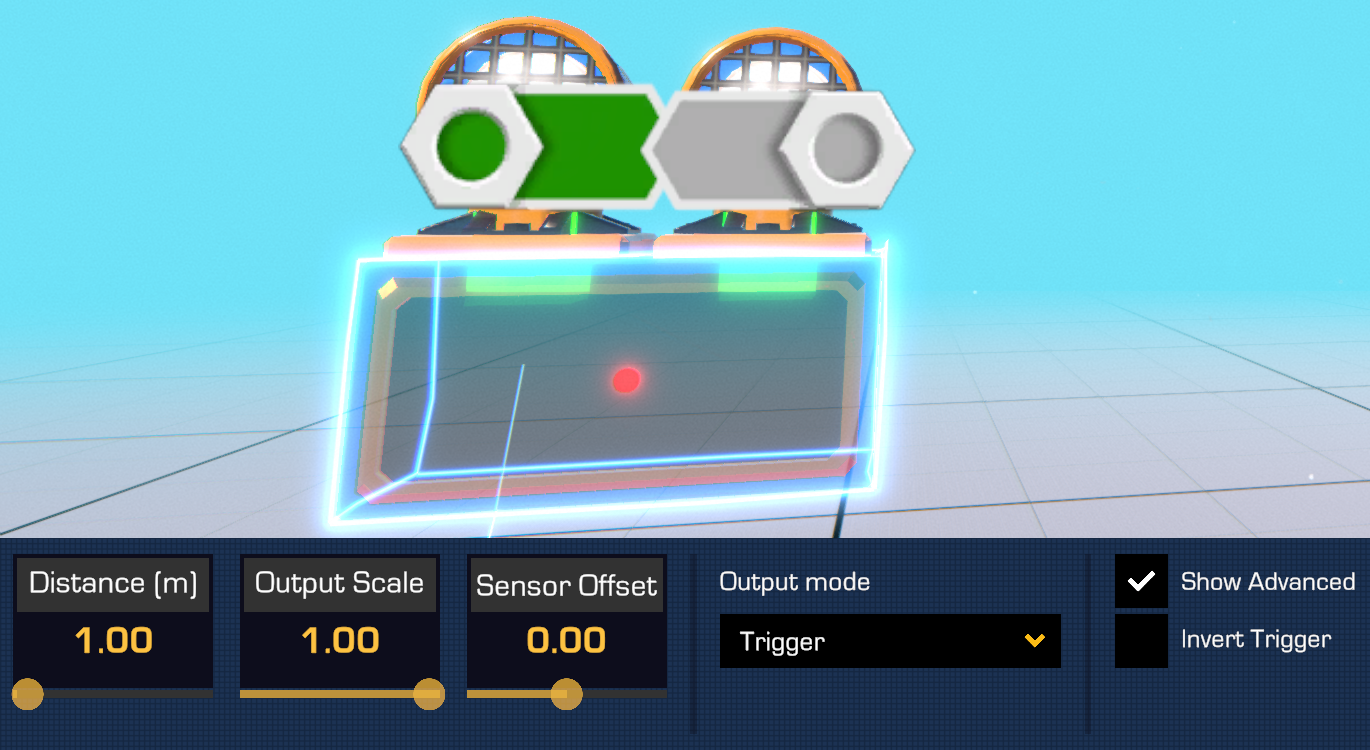
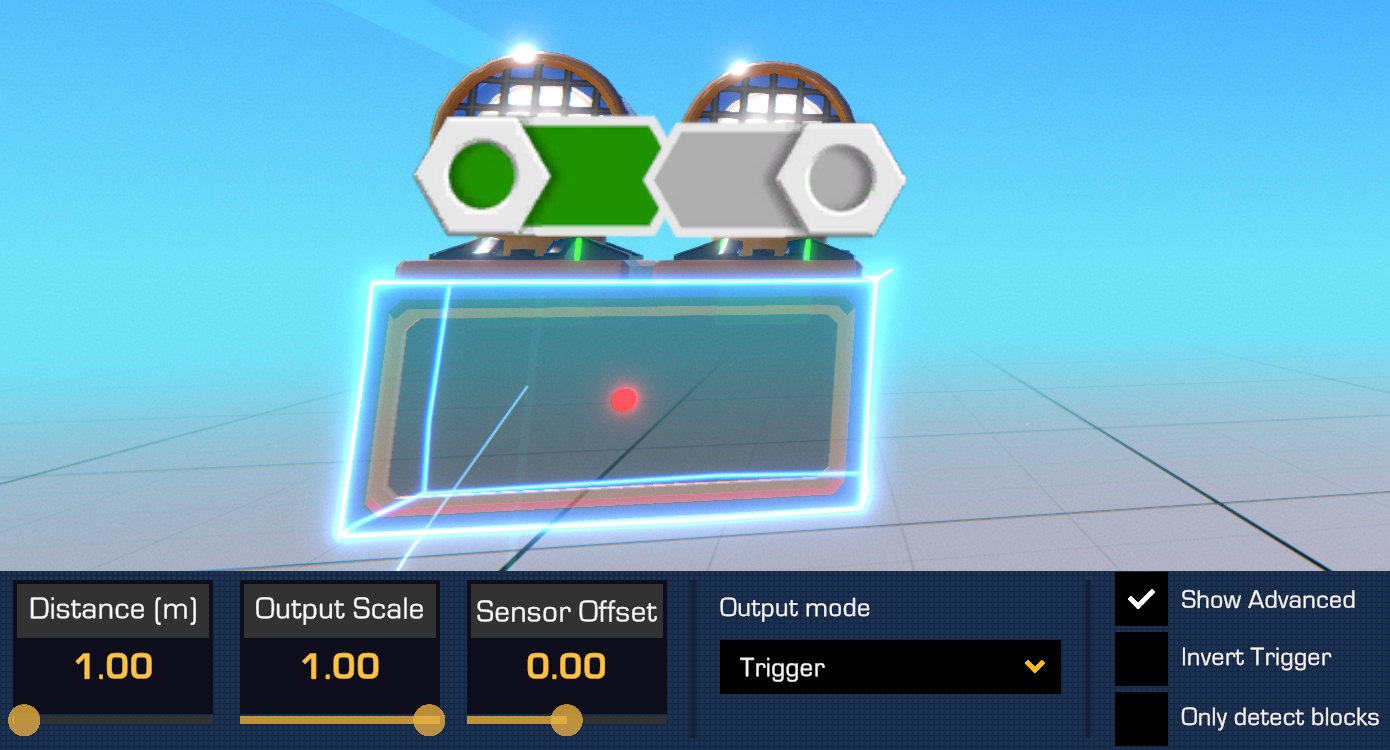
added information about blocks only toggle on distance sensors

diff --git a/Logic Blocks Guide.md b/Logic Blocks Guide.md
@@ -175,6 +175,8 @@ Its settings are shown in figure \ref{fig:SensorDistance} and are as follows:
 - Trigger: condition used to determine when to send an output
   - Normal: sends an output when it detects an object
   - Inverted: sends an output when it doesn't detect an object
+- Blocks only: whether to trigger only when blocks are detected
+  - If enabled, raycast stops at the first obstacle regardless of what it is, but if it's not a block the output will be the same as no detection
 
 \begin{figure}[H]
     \centering
@@ -197,22 +199,24 @@ Its settings are shown in figure \ref{fig:SensorDistance} and are as follows:
             %\foreach \y in {0,1,...,20} {\node [left]  at (0,\y) {\tiny \y};}
 
             % Nodes
-            \node[annotation, left]  (output_on)    at (-1, 16)      {Output (on)};
-            \node[annotation, right] (output_off)   at (21, 16)      {Output (off)};
-            \node[annotation, left]  (range)        at (-1, 3)       {Range};
-            \node[annotation, below] (output_value) at (3.75, -1.5)  {Output scale};
-            \node[annotation, below] (offset)       at (9.2, -1.5)   {Sensor offset};
-            \node[annotation, below] (mode)         at (14.75, -1.5) {Output mode};
-            \node[annotation, right] (trigger)      at (21, 0)       {Invert trigger};
+            \node[annotation, left]  (output_on)    at (-1, 15.3)    {Output (on)};
+            \node[annotation, right] (output_off)   at (21, 15.3)    {Output (off)};
+            \node[annotation, left]  (range)        at (-1, 2.2)     {Range};
+            \node[annotation, below] (output_value) at (3.4, -1.5)   {Output scale};
+            \node[annotation, below] (offset)       at (8.85, -1.5)  {Sensor offset};
+            \node[annotation, below] (mode)         at (14.4, -1.5)  {Output mode};
+            \node[annotation, below] (blocks)       at (19.7, -1.5)  {Blocks only};
+            \node[annotation, right] (trigger)      at (21, 2.4)     {Invert trigger};
 
             % Arrows
-            \draw[arrow] (output_on.east)         -- (5.7, 16);
-            \draw[arrow] (output_off.west)        -- (13.5, 16);
-            \draw[arrow] (range.east)             -- (0.15, 3);
-            \draw[arrow] (output_value.north) to[*|] (5, 1);
-            \draw[arrow] (output_value.north) to[*|] (8.4, 1);
-            \draw[arrow] (mode.north)             -- (12.5, 1.7);
-            \draw[arrow] (trigger.west)           -- (17.2, 2.1);
+            \draw[arrow] (output_on.east)         -- (5.8, 15.3);
+            \draw[arrow] (output_off.west)        -- (13.2, 15.3);
+            \draw[arrow] (range.east)             -- (0.15, 2.2);
+            \draw[arrow] (output_value.north) to[*|] (5, 0.5);
+            \draw[arrow] (offset.north)       to[*|] (8.4, 0.5);
+            \draw[arrow] (mode.north)         to[*|] (12.7, 1.3);
+            \draw[arrow] (blocks.north)           -- (16.9, 0.2);
+            \draw[arrow] (trigger.west)           -- (19.3, 2.4);
         \end{scope}
     \end{tikzpicture}
     \vspace{1cm}